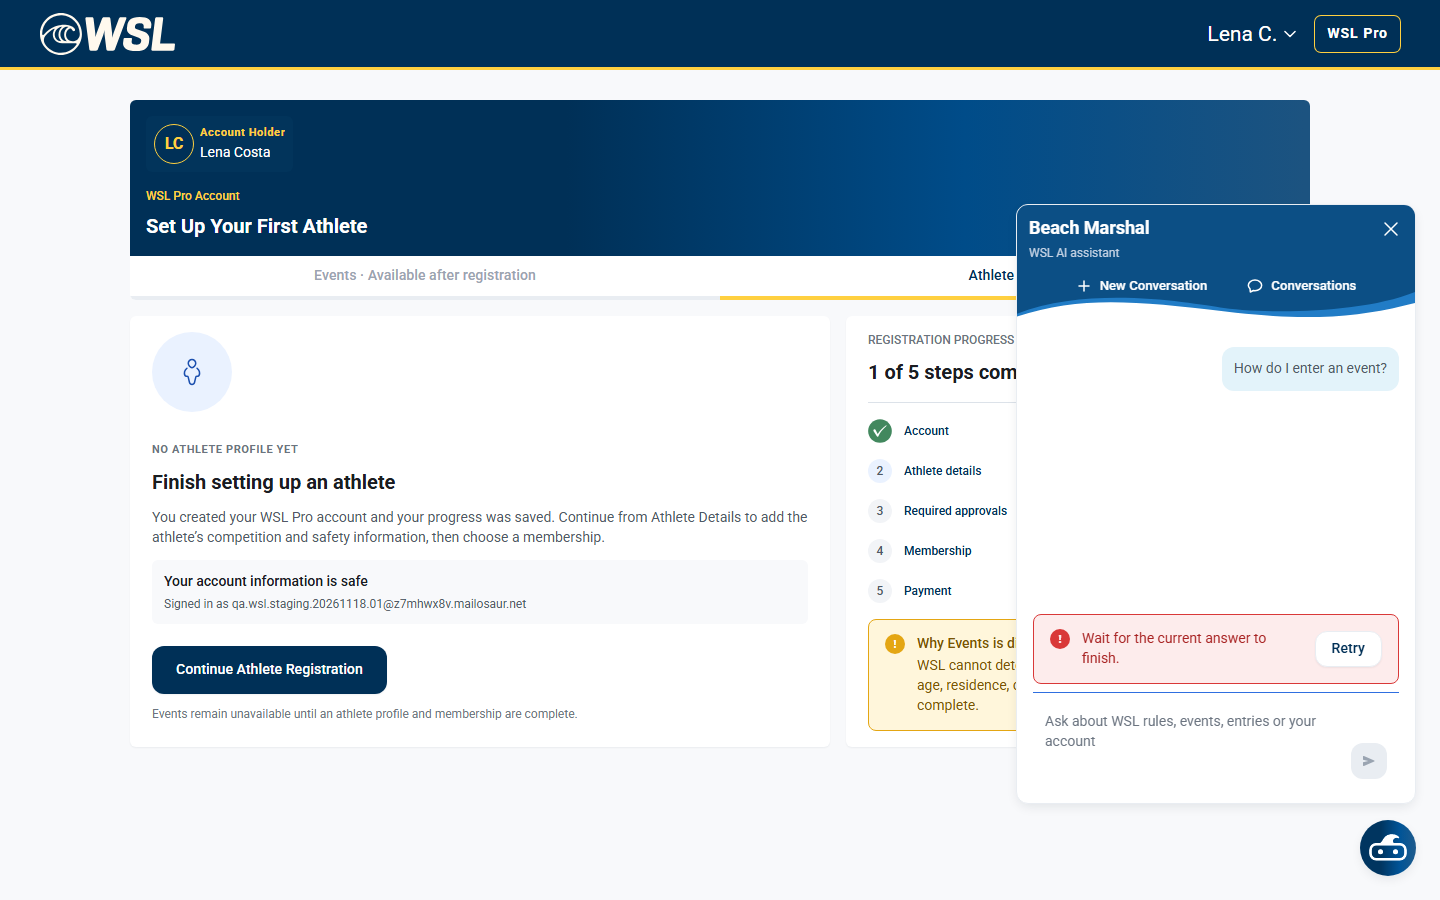
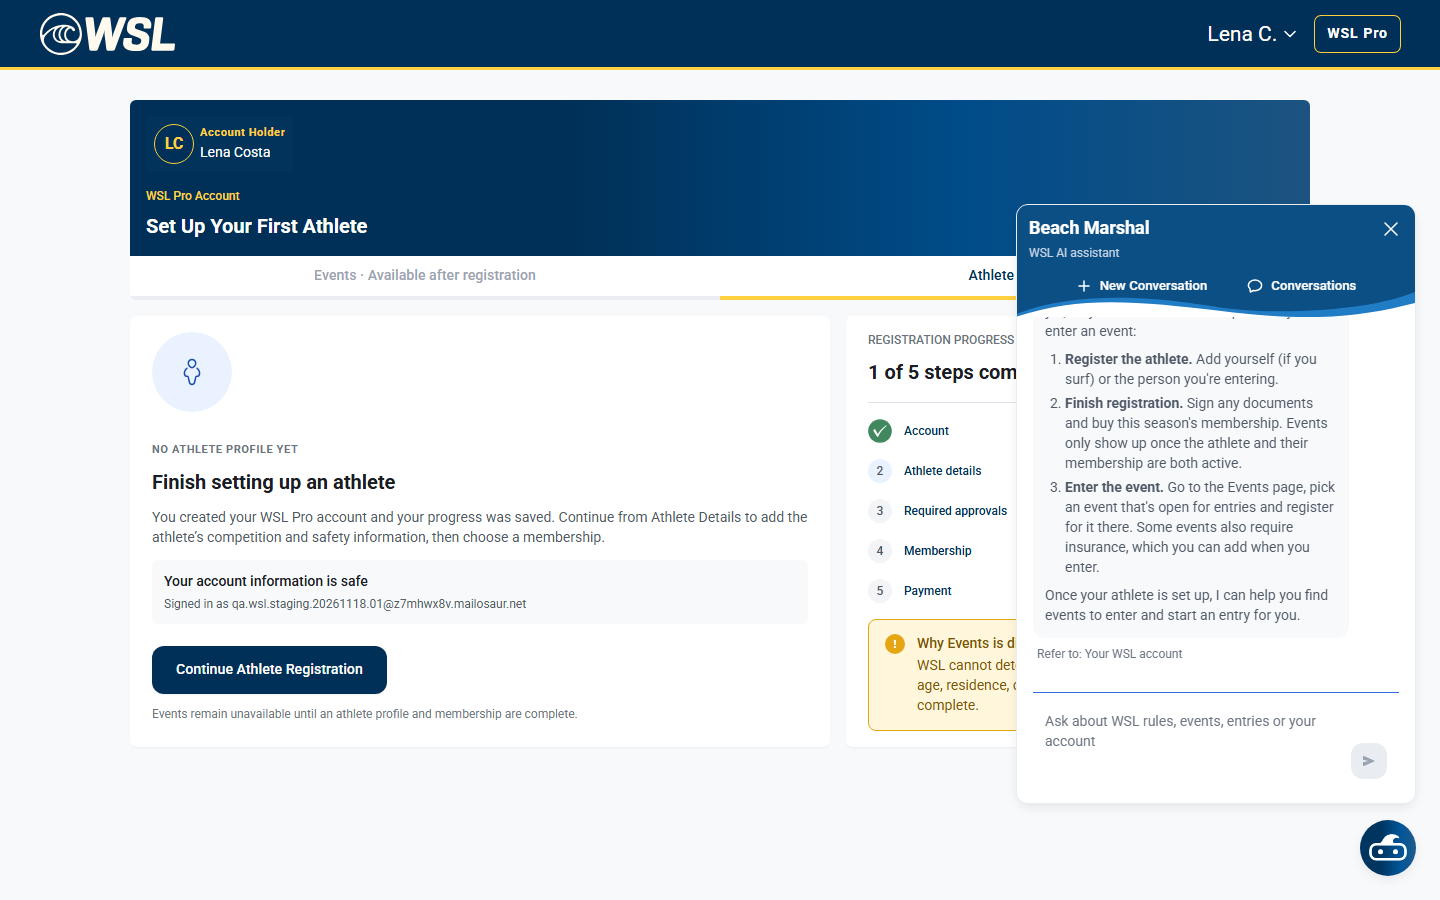
Staging smoke: Beach Marshal browser pass

Changed region(s): [[0.7188, 0.3422, 0.9688, 0.6222], [0.7188, 0.6533, 0.9375, 0.7467], [0.9062, 0.7156, 0.9688, 0.7467]]

diff --git a/staging-smoke-2026-11-18/index.html b/staging-smoke-2026-11-18/index.html
@@ -14,11 +14,11 @@ a{color:var(--info)}ul{padding-left:20px}
 </style></head><body><main>
 <h1>WSL Pro Staging Smoke Test, 18 Nov 2026</h1>
 <p class="lede">Smoke run on staging (app.staging01 / api.staging01), same scope as the staging smoke of 11 Nov: the master smoke suite, the AI assistant tests and the main-flow page checks for the Tour Manager and athlete views. Test data only; no production.</p>
-<div class="kpis"><div class="kpi"><b>38</b>checks run</div><div class="kpi"><b>20</b>passed</div><div class="kpi"><b>1</b>failed</div><div class="kpi"><b>15</b>blocked</div></div>
+<div class="kpis"><div class="kpi"><b>38</b>checks run</div><div class="kpi"><b>21</b>passed</div><div class="kpi"><b>1</b>failed</div><div class="kpi"><b>15</b>blocked</div></div>
 
 <h2>In short</h2>
 <div class="card"><ul>
-<li>8 of 24 tests pass, 1 fail, 15 blocked; 12 of 13 page checks pass.</li>
+<li>8 of 24 tests pass, 1 fail, 15 blocked; 13 of 13 page checks pass.</li>
 <li><b>Email verification on staging:</b> new accounts must verify their email first (link in the email, then enter the password). Verified manually for one account, so the athlete pages below now pass. The automated sign-up tests (5) still fail because the scripts do not do this step yet; script update needed, not a bug. Needed to unblock: allow staging email to the test inbox domain, a test switch to skip verification, or one verified athlete account. Tour Manager and AL checks are not affected.</li>
 <li>Scope: the master smoke suite (registration, membership, event entry, Confirm &amp; charge, roles, P1 checks), the AI assistant tests (Beach Marshal and AL) and the Tour Manager / athlete page checks.</li>
 </ul></div>
@@ -35,7 +35,7 @@ a{color:var(--info)}ul{padding-left:20px}
 
 <h3>Main-flow page checks</h3>
 <div class="wrap"><table><thead><tr><th>View</th><th>Page</th><th>Heading / question</th><th>Result</th><th>Note</th><th>Screenshot</th></tr></thead><tbody>
-<tr><td>Tour Manager</td><td><code>/tour-manager</code></td><td>404</td><td><span class="pill info">INFO</span></td><td>No landing page at this address (same on staging); the menu goes to /tour-manager/events.</td><td><a href="assets/mf-tour-manager-01--tour-manager.png">open</a></td></tr><tr><td>Tour Manager</td><td><code>/tour-manager/events</code></td><td>Events</td><td><span class="pill ok">PASS</span></td><td></td><td><a href="assets/mf-tour-manager-02--tour-manager-events.png">open</a></td></tr><tr><td>Tour Manager</td><td><code>/tour-manager/athletes</code></td><td>Athletes</td><td><span class="pill ok">PASS</span></td><td></td><td><a href="assets/mf-tour-manager-03--tour-manager-athletes.png">open</a></td></tr><tr><td>Tour Manager</td><td><code>/tour-manager/finance</code></td><td>Reports</td><td><span class="pill ok">PASS</span></td><td></td><td><a href="assets/mf-tour-manager-04--tour-manager-finance.png">open</a></td></tr><tr><td>Tour Manager</td><td><code>/tour-manager/tickets</code></td><td>Athlete Care</td><td><span class="pill ok">PASS</span></td><td></td><td><a href="assets/mf-tour-manager-05--tour-manager-tickets.png">open</a></td></tr><tr><td>Tour Manager</td><td><code>/tour-manager/settings</code></td><td>Entry fees</td><td><span class="pill ok">PASS</span></td><td></td><td><a href="assets/mf-tour-manager-06--tour-manager-settings.png">open</a></td></tr><tr><td>Tour Manager</td><td><code>/tour-manager/events/new?season=…</code></td><td>New event</td><td><span class="pill ok">PASS</span></td><td>404 GET /tour-manager/events//overview</td><td><a href="assets/mf-tour-manager-07-event-detail.png">open</a></td></tr><tr><td>Tour Manager</td><td><code>AL assistant</code></td><td>How many events are open for entries right now?</td><td><span class="pill ok">PASS</span></td><td>Answer checked on the screenshot (the script could not read the chat text).</td><td><a href="assets/mf-tour-manager-assistant.png">open</a></td></tr><tr><td>Athlete</td><td><code>/athlete-registration/athletes</code></td><td>Set Up Your First Athlete</td><td><span class="pill ok">PASS</span></td><td>Verified account, no athlete profile yet: the page correctly asks to finish athlete setup first. </td><td><a href="assets/mf-athlete-01--athlete-registration-athletes.png">open</a></td></tr><tr><td>Athlete</td><td><code>/events</code></td><td>Set Up Your First Athlete</td><td><span class="pill ok">PASS</span></td><td>Verified account, no athlete profile yet: the page correctly asks to finish athlete setup first. </td><td><a href="assets/mf-athlete-02--events.png">open</a></td></tr><tr><td>Athlete</td><td><code>/support/tickets</code></td><td>Athlete Care</td><td><span class="pill ok">PASS</span></td><td></td><td><a href="assets/mf-athlete-03--support-tickets.png">open</a></td></tr><tr><td>Athlete</td><td><code>/support</code></td><td></td><td><span class="pill ok">PASS</span></td><td></td><td><a href="assets/mf-athlete-04--support.png">open</a></td></tr><tr><td>Athlete</td><td><code>/athlete-registration/register</code></td><td>Athlete Details</td><td><span class="pill ok">PASS</span></td><td></td><td><a href="assets/mf-athlete-05--athlete-registration-register.png">open</a></td></tr><tr><td>Athlete</td><td><code>Beach Marshal assistant</code></td><td>How do I enter an event?</td><td><span class="pill warn">BLOCKED</span></td><td>Showed &quot;Wait for the current answer to finish&quot;: the API Beach Marshal test was running on the same account at the same time. Needs a rerun on its own.</td><td><a href="assets/mf-athlete-assistant.png">open</a></td></tr>
+<tr><td>Tour Manager</td><td><code>/tour-manager</code></td><td>404</td><td><span class="pill info">INFO</span></td><td>No landing page at this address (same on staging); the menu goes to /tour-manager/events.</td><td><a href="assets/mf-tour-manager-01--tour-manager.png">open</a></td></tr><tr><td>Tour Manager</td><td><code>/tour-manager/events</code></td><td>Events</td><td><span class="pill ok">PASS</span></td><td></td><td><a href="assets/mf-tour-manager-02--tour-manager-events.png">open</a></td></tr><tr><td>Tour Manager</td><td><code>/tour-manager/athletes</code></td><td>Athletes</td><td><span class="pill ok">PASS</span></td><td></td><td><a href="assets/mf-tour-manager-03--tour-manager-athletes.png">open</a></td></tr><tr><td>Tour Manager</td><td><code>/tour-manager/finance</code></td><td>Reports</td><td><span class="pill ok">PASS</span></td><td></td><td><a href="assets/mf-tour-manager-04--tour-manager-finance.png">open</a></td></tr><tr><td>Tour Manager</td><td><code>/tour-manager/tickets</code></td><td>Athlete Care</td><td><span class="pill ok">PASS</span></td><td></td><td><a href="assets/mf-tour-manager-05--tour-manager-tickets.png">open</a></td></tr><tr><td>Tour Manager</td><td><code>/tour-manager/settings</code></td><td>Entry fees</td><td><span class="pill ok">PASS</span></td><td></td><td><a href="assets/mf-tour-manager-06--tour-manager-settings.png">open</a></td></tr><tr><td>Tour Manager</td><td><code>/tour-manager/events/new?season=…</code></td><td>New event</td><td><span class="pill ok">PASS</span></td><td>404 GET /tour-manager/events//overview</td><td><a href="assets/mf-tour-manager-07-event-detail.png">open</a></td></tr><tr><td>Tour Manager</td><td><code>AL assistant</code></td><td>How many events are open for entries right now?</td><td><span class="pill ok">PASS</span></td><td>Answer checked on the screenshot (the script could not read the chat text).</td><td><a href="assets/mf-tour-manager-assistant.png">open</a></td></tr><tr><td>Athlete</td><td><code>/athlete-registration/athletes</code></td><td>Set Up Your First Athlete</td><td><span class="pill ok">PASS</span></td><td>Verified account, no athlete profile yet: the page correctly asks to finish athlete setup first. </td><td><a href="assets/mf-athlete-01--athlete-registration-athletes.png">open</a></td></tr><tr><td>Athlete</td><td><code>/events</code></td><td>Set Up Your First Athlete</td><td><span class="pill ok">PASS</span></td><td>Verified account, no athlete profile yet: the page correctly asks to finish athlete setup first. </td><td><a href="assets/mf-athlete-02--events.png">open</a></td></tr><tr><td>Athlete</td><td><code>/support/tickets</code></td><td>Athlete Care</td><td><span class="pill ok">PASS</span></td><td></td><td><a href="assets/mf-athlete-03--support-tickets.png">open</a></td></tr><tr><td>Athlete</td><td><code>/support</code></td><td></td><td><span class="pill ok">PASS</span></td><td></td><td><a href="assets/mf-athlete-04--support.png">open</a></td></tr><tr><td>Athlete</td><td><code>/athlete-registration/register</code></td><td>Athlete Details</td><td><span class="pill ok">PASS</span></td><td></td><td><a href="assets/mf-athlete-05--athlete-registration-register.png">open</a></td></tr><tr><td>Athlete</td><td><code>Beach Marshal assistant</code></td><td>How do I enter an event?</td><td><span class="pill ok">PASS</span></td><td>Answer checked on the screenshot (the script could not read the chat text).</td><td><a href="assets/mf-athlete-assistant.png">open</a></td></tr>
 </tbody></table></div>
 
 
@@ -57,7 +57,7 @@ a{color:var(--info)}ul{padding-left:20px}
 </tbody></table></div>
 <h2>Rerun after staging removed email verification (18 Nov, 20:40)</h2><p class="lede">Staging stopped requiring email verification (sign-up 201, login straight away). The tests blocked above were rerun; these results replace their BLOCKED rows.</p>
 <div class="wrap"><table><thead><tr><th>Test</th><th>What</th><th>Result</th><th>Notes</th></tr></thead><tbody>
-<tr><td><code>SingleEventMembershipCheckout</code></td><td>Single Event membership: age gate through payment</td><td><span class="pill ok">PASS</span></td><td></td></tr><tr><td><code>MembershipPaymentFailures.declinedCard</code></td><td>Declined card at membership payment</td><td><span class="pill ok">PASS</span></td><td></td></tr><tr><td><code>ADD-17</code></td><td>Login, current season and navigation</td><td><span class="pill ok">PASS</span></td><td>6 checks</td></tr><tr><td><code>SignupAgeThirteenToSeventeen</code></td><td>13-17 sign-up and guardian flow</td><td><span class="pill ok">PASS</span></td><td>Passes with a pre-set guardian inbox (QA). New per-run test inboxes get no email on staging, so staging only delivers to pre-set addresses.</td></tr><tr><td><code>SignupUnderThirteen</code></td><td>Under-13 sign-up and document consent</td><td><span class="pill info">INFO</span> running</td><td>Rerunning with a pre-set inbox as the account email (the under-13 consent goes to the account holder).</td></tr><tr><td><code>AthleteRegistrationThroughEventEntry</code></td><td>Adult registration through event entry</td><td><span class="pill ok">PASS</span></td><td>Passes against the added open Jan 2027 events (Barra de la Cruz Winter Pro, Atlantic City Winter Pro). First rerun had no open 2027 event to enter: all open events were Dec 2026 while memberships on sale are 2027.</td></tr><tr><td><code>AUTO-AST-001/002/003/010/011</code></td><td>Beach Marshal: registration, membership, cannot change paid details, refuses TM action, declines unsupported request</td><td><span class="pill ok">PASS</span></td><td></td></tr><tr><td><code>AUTO-PAY-001/002, AUTO-AST-004/005</code></td><td>Entry charge, declined entry payment, Beach Marshal cannot confirm entry / bypass insurance</td><td><span class="pill info">INFO</span> running</td><td>First rerun blocked by the test setup (wrong open-status name for staging); rerunning with the fix.</td></tr><tr><td><code>JUNIOR-SCOPE</code></td><td>Junior vs adult: memberships offered and events listed</td><td><span class="pill info">INFO</span> running</td><td></td></tr>
+<tr><td><code>SingleEventMembershipCheckout</code></td><td>Single Event membership: age gate through payment</td><td><span class="pill ok">PASS</span></td><td></td></tr><tr><td><code>MembershipPaymentFailures.declinedCard</code></td><td>Declined card at membership payment</td><td><span class="pill ok">PASS</span></td><td></td></tr><tr><td><code>ADD-17</code></td><td>Login, current season and navigation</td><td><span class="pill ok">PASS</span></td><td>6 checks</td></tr><tr><td><code>SignupAgeThirteenToSeventeen</code></td><td>13-17 sign-up and guardian flow</td><td><span class="pill ok">PASS</span></td><td>Passes with a pre-set guardian inbox (QA). New per-run test inboxes get no email on staging, so staging only delivers to pre-set addresses.</td></tr><tr><td><code>SignupUnderThirteen</code></td><td>Under-13 sign-up and document consent</td><td><span class="pill info">INFO</span> running</td><td>Rerunning with a pre-set inbox as the account email (the under-13 consent goes to the account holder).</td></tr><tr><td><code>AthleteRegistrationThroughEventEntry</code></td><td>Adult registration through event entry</td><td><span class="pill ok">PASS</span></td><td>Passes against the added open Jan 2027 events (Barra de la Cruz Winter Pro, Atlantic City Winter Pro). First rerun had no open 2027 event to enter: all open events were Dec 2026 while memberships on sale are 2027.</td></tr><tr><td><code>AUTO-AST-001/002/003/010/011</code></td><td>Beach Marshal: registration, membership, cannot change paid details, refuses TM action, declines unsupported request</td><td><span class="pill ok">PASS</span></td><td></td></tr><tr><td><code>AUTO-PAY-001/002, AUTO-AST-004/005</code></td><td>Entry charge, declined entry payment, Beach Marshal cannot confirm entry / bypass insurance</td><td><span class="pill info">INFO</span> running</td><td>First rerun blocked by the test setup (wrong open-status name for staging); rerunning with the fix.</td></tr><tr><td><code>JUNIOR-SCOPE</code></td><td>Junior vs adult: memberships offered and events listed</td><td><span class="pill info">INFO</span> running</td><td></td></tr><tr><td><code>Beach Marshal (browser)</code></td><td>Athlete asks Beach Marshal how to enter an event</td><td><span class="pill ok">PASS</span></td><td>Clear 3-step answer (register athlete, finish registration, enter event); checked on the screenshot.</td></tr>
 </tbody></table></div>
-<p class="lede">Generated 2026-11-18 19:02 UTC from runs 20261118T180554 and 20261118T180559.</p>
+<p class="lede">Generated 2026-11-18 19:04 UTC from runs 20261118T180554 and 20261118T180559.</p>
 </main></body></html>
